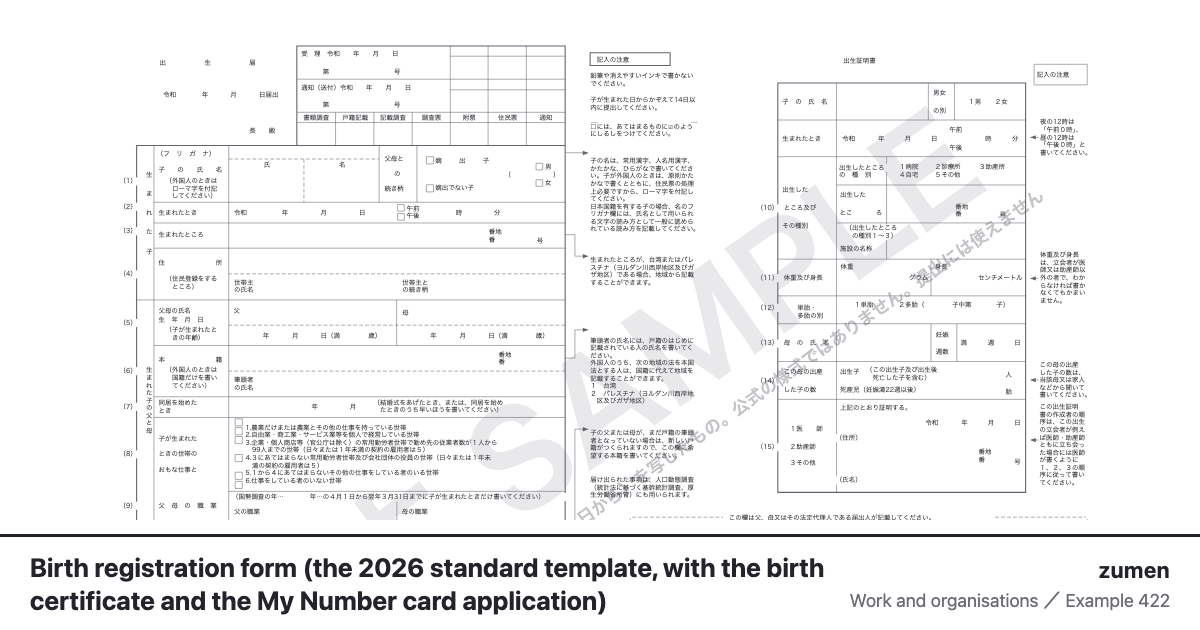
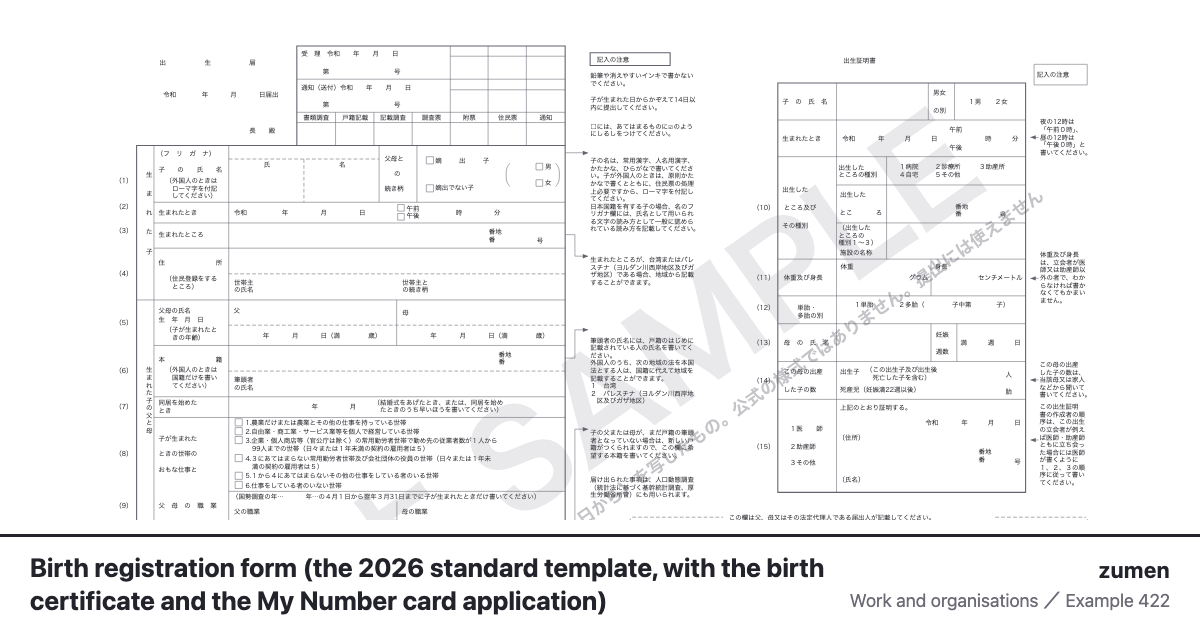
fix(見本 422): 戸籍窓口の目の 4 回目の見直し。世帯の仕事の □ と項目をそろえる・罫線を字の下地で切らない・続き柄の括弧を 2 行に
Claude-Session: https://claude.ai/code/session_01SsuPBZV9YaAZ9NJNDHvP2H

Changed region(s): [[0.185, 0.6635, 0.4625, 0.8143], [0.6783, 0.3619, 0.74, 0.4222], [0.7092, 0.2413, 0.74, 0.3016]]

diff --git a/site/g/422/index.html b/site/g/422/index.html
@@ -111,7 +111,7 @@
   <p class="made">この図は、下の 1 枚の YAML から描かれています。手で図形を動かしてはいません。</p>
   <h2>正本に書いてある決まりごと</h2>
   <p><strong>役所の窓口や病院で受け取って手で書く様式。</strong> 左が届出人（父母など）の欄、右上が出生証明書（医師・助産師などが書く）、右下の点線枠が個人番号カード交付申請書 兼 電子証明書発行申請書、中央の文は欄ごとの注意。</p>
-  <p>罫線は様式の PDF（A3 横）から拾い、字は PDF から位置ごと取り出した。受理・通知の欄の字だけは図形なので絵から読んだ。字の大きさが固定なので、様式を 1.25 倍で描いて A3 へ縮めて収める（紙の上で字は約 2.5mm）。申請欄の（注）は原文が 6pt ほどの細字で、固定の字では原文の行に収まらないため要約した（図の中にもそう書いた）。出典：法務省民事局長通達「戸籍届書の標準様式の全部改正について」令和 8 年 2 月 26 日 法務省民一第 394 号（別紙 1〜35。令和 8 年 4 月 1 日施行、従前の様式の用紙も当分の間使える）別紙 1。内閣府 地方分権改革の提案募集の資料に収録https://www.cao.go.jp/bunken-suishin/teianbosyu/doc/r07/tb_r7fu_08moj_106_1.pdf（取得 2026-11-10）戸籍法 第 49 条（出生の届出は 14 日以内・出生証明書を添付）戸籍法施行規則 第 59 条・附録第 11 号様式「出生の届書（日本産業規格Ａ列四番）」（e-Gov 法令 API、取得 2026-11-24）。左半分の欄の名前・順は附録第 11 号様式と一致する（（1）〜（9）の番号・記入の注意・受理欄は標準様式で足されたもの）架空：なし（何も書き込んでいない白紙の様式）。</p>
+  <p>罫線は様式の PDF（A3 横）から拾い、字は PDF から位置ごと取り出した。受理・通知の欄の字だけは図形なので絵から読んだ。字の大きさが固定なので、様式を 1.25 倍で描いて A3 へ縮めて収める（紙の上で字は約 2.5mm）。申請欄の（注）は原文が 6pt ほどの細字で、固定の字では原文の行に収まらないため要約した（図の中にもそう書いた）。出典：法務省民事局長通達「戸籍届書の標準様式の全部改正について」令和 8 年 2 月 26 日 法務省民一第 394 号（別紙 1〜35。令和 8 年 4 月 1 日施行、従前の様式の用紙も当分の間使える）別紙 1。内閣府 地方分権改革の提案募集の資料に収録https://www.cao.go.jp/bunken-suishin/teianbosyu/doc/r07/tb_r7fu_08moj_106_1.pdf（取得 2026-11-10）戸籍法 第 49 条（出生の届出は 14 日以内・出生証明書を添付）戸籍法施行規則 第 59 条・附録第 11 号様式「出生の届書（日本産業規格Ａ列四番）」（e-Gov 法令 API、取得 2026-11-24）。左半分の欄の名前・順は附録第 11 号様式と一致する（（1）〜（9）の番号・記入の注意・受理欄・年の前の「令和」、子の氏名の（外国人のときはローマ字を付記してください）・住所の（住民登録をするところ）・同居の（結婚式をあげたとき…）は標準様式で足されたもの。附録にあるのは（子が生まれたときの年齢）と本籍の（外国人のときは国籍だけを書いてください））架空：なし（何も書き込んでいない白紙の様式）。</p>
   <h2>正本（YAML）</h2>
   <p><a href="https://github.com/meta-taro/zumen/blob/main/examples/gallery/422-%E5%87%BA%E7%94%9F%E5%B1%8A.zumen.yaml"><code>examples/gallery/422-出生届.zumen.yaml</code></a></p>
   <h2>同じ分野の見本</h2>

diff --git a/site/en/g/422/index.html b/site/en/g/422/index.html
@@ -112,7 +112,7 @@
   <h2>Notes in the source (in Japanese)</h2>
   <div lang="ja">
   <p><strong>役所の窓口や病院で受け取って手で書く様式。</strong> 左が届出人（父母など）の欄、右上が出生証明書（医師・助産師などが書く）、右下の点線枠が個人番号カード交付申請書 兼 電子証明書発行申請書、中央の文は欄ごとの注意。</p>
-  <p>罫線は様式の PDF（A3 横）から拾い、字は PDF から位置ごと取り出した。受理・通知の欄の字だけは図形なので絵から読んだ。字の大きさが固定なので、様式を 1.25 倍で描いて A3 へ縮めて収める（紙の上で字は約 2.5mm）。申請欄の（注）は原文が 6pt ほどの細字で、固定の字では原文の行に収まらないため要約した（図の中にもそう書いた）。出典：法務省民事局長通達「戸籍届書の標準様式の全部改正について」令和 8 年 2 月 26 日 法務省民一第 394 号（別紙 1〜35。令和 8 年 4 月 1 日施行、従前の様式の用紙も当分の間使える）別紙 1。内閣府 地方分権改革の提案募集の資料に収録https://www.cao.go.jp/bunken-suishin/teianbosyu/doc/r07/tb_r7fu_08moj_106_1.pdf（取得 2026-11-10）戸籍法 第 49 条（出生の届出は 14 日以内・出生証明書を添付）戸籍法施行規則 第 59 条・附録第 11 号様式「出生の届書（日本産業規格Ａ列四番）」（e-Gov 法令 API、取得 2026-11-24）。左半分の欄の名前・順は附録第 11 号様式と一致する（（1）〜（9）の番号・記入の注意・受理欄は標準様式で足されたもの）架空：なし（何も書き込んでいない白紙の様式）。</p>
+  <p>罫線は様式の PDF（A3 横）から拾い、字は PDF から位置ごと取り出した。受理・通知の欄の字だけは図形なので絵から読んだ。字の大きさが固定なので、様式を 1.25 倍で描いて A3 へ縮めて収める（紙の上で字は約 2.5mm）。申請欄の（注）は原文が 6pt ほどの細字で、固定の字では原文の行に収まらないため要約した（図の中にもそう書いた）。出典：法務省民事局長通達「戸籍届書の標準様式の全部改正について」令和 8 年 2 月 26 日 法務省民一第 394 号（別紙 1〜35。令和 8 年 4 月 1 日施行、従前の様式の用紙も当分の間使える）別紙 1。内閣府 地方分権改革の提案募集の資料に収録https://www.cao.go.jp/bunken-suishin/teianbosyu/doc/r07/tb_r7fu_08moj_106_1.pdf（取得 2026-11-10）戸籍法 第 49 条（出生の届出は 14 日以内・出生証明書を添付）戸籍法施行規則 第 59 条・附録第 11 号様式「出生の届書（日本産業規格Ａ列四番）」（e-Gov 法令 API、取得 2026-11-24）。左半分の欄の名前・順は附録第 11 号様式と一致する（（1）〜（9）の番号・記入の注意・受理欄・年の前の「令和」、子の氏名の（外国人のときはローマ字を付記してください）・住所の（住民登録をするところ）・同居の（結婚式をあげたとき…）は標準様式で足されたもの。附録にあるのは（子が生まれたときの年齢）と本籍の（外国人のときは国籍だけを書いてください））架空：なし（何も書き込んでいない白紙の様式）。</p>
   </div>
   <h2>Source (YAML)</h2>
   <p><a href="https://github.com/meta-taro/zumen/blob/main/examples/gallery/422-%E5%87%BA%E7%94%9F%E5%B1%8A.zumen.yaml"><code>examples/gallery/422-出生届.zumen.yaml</code></a></p>
